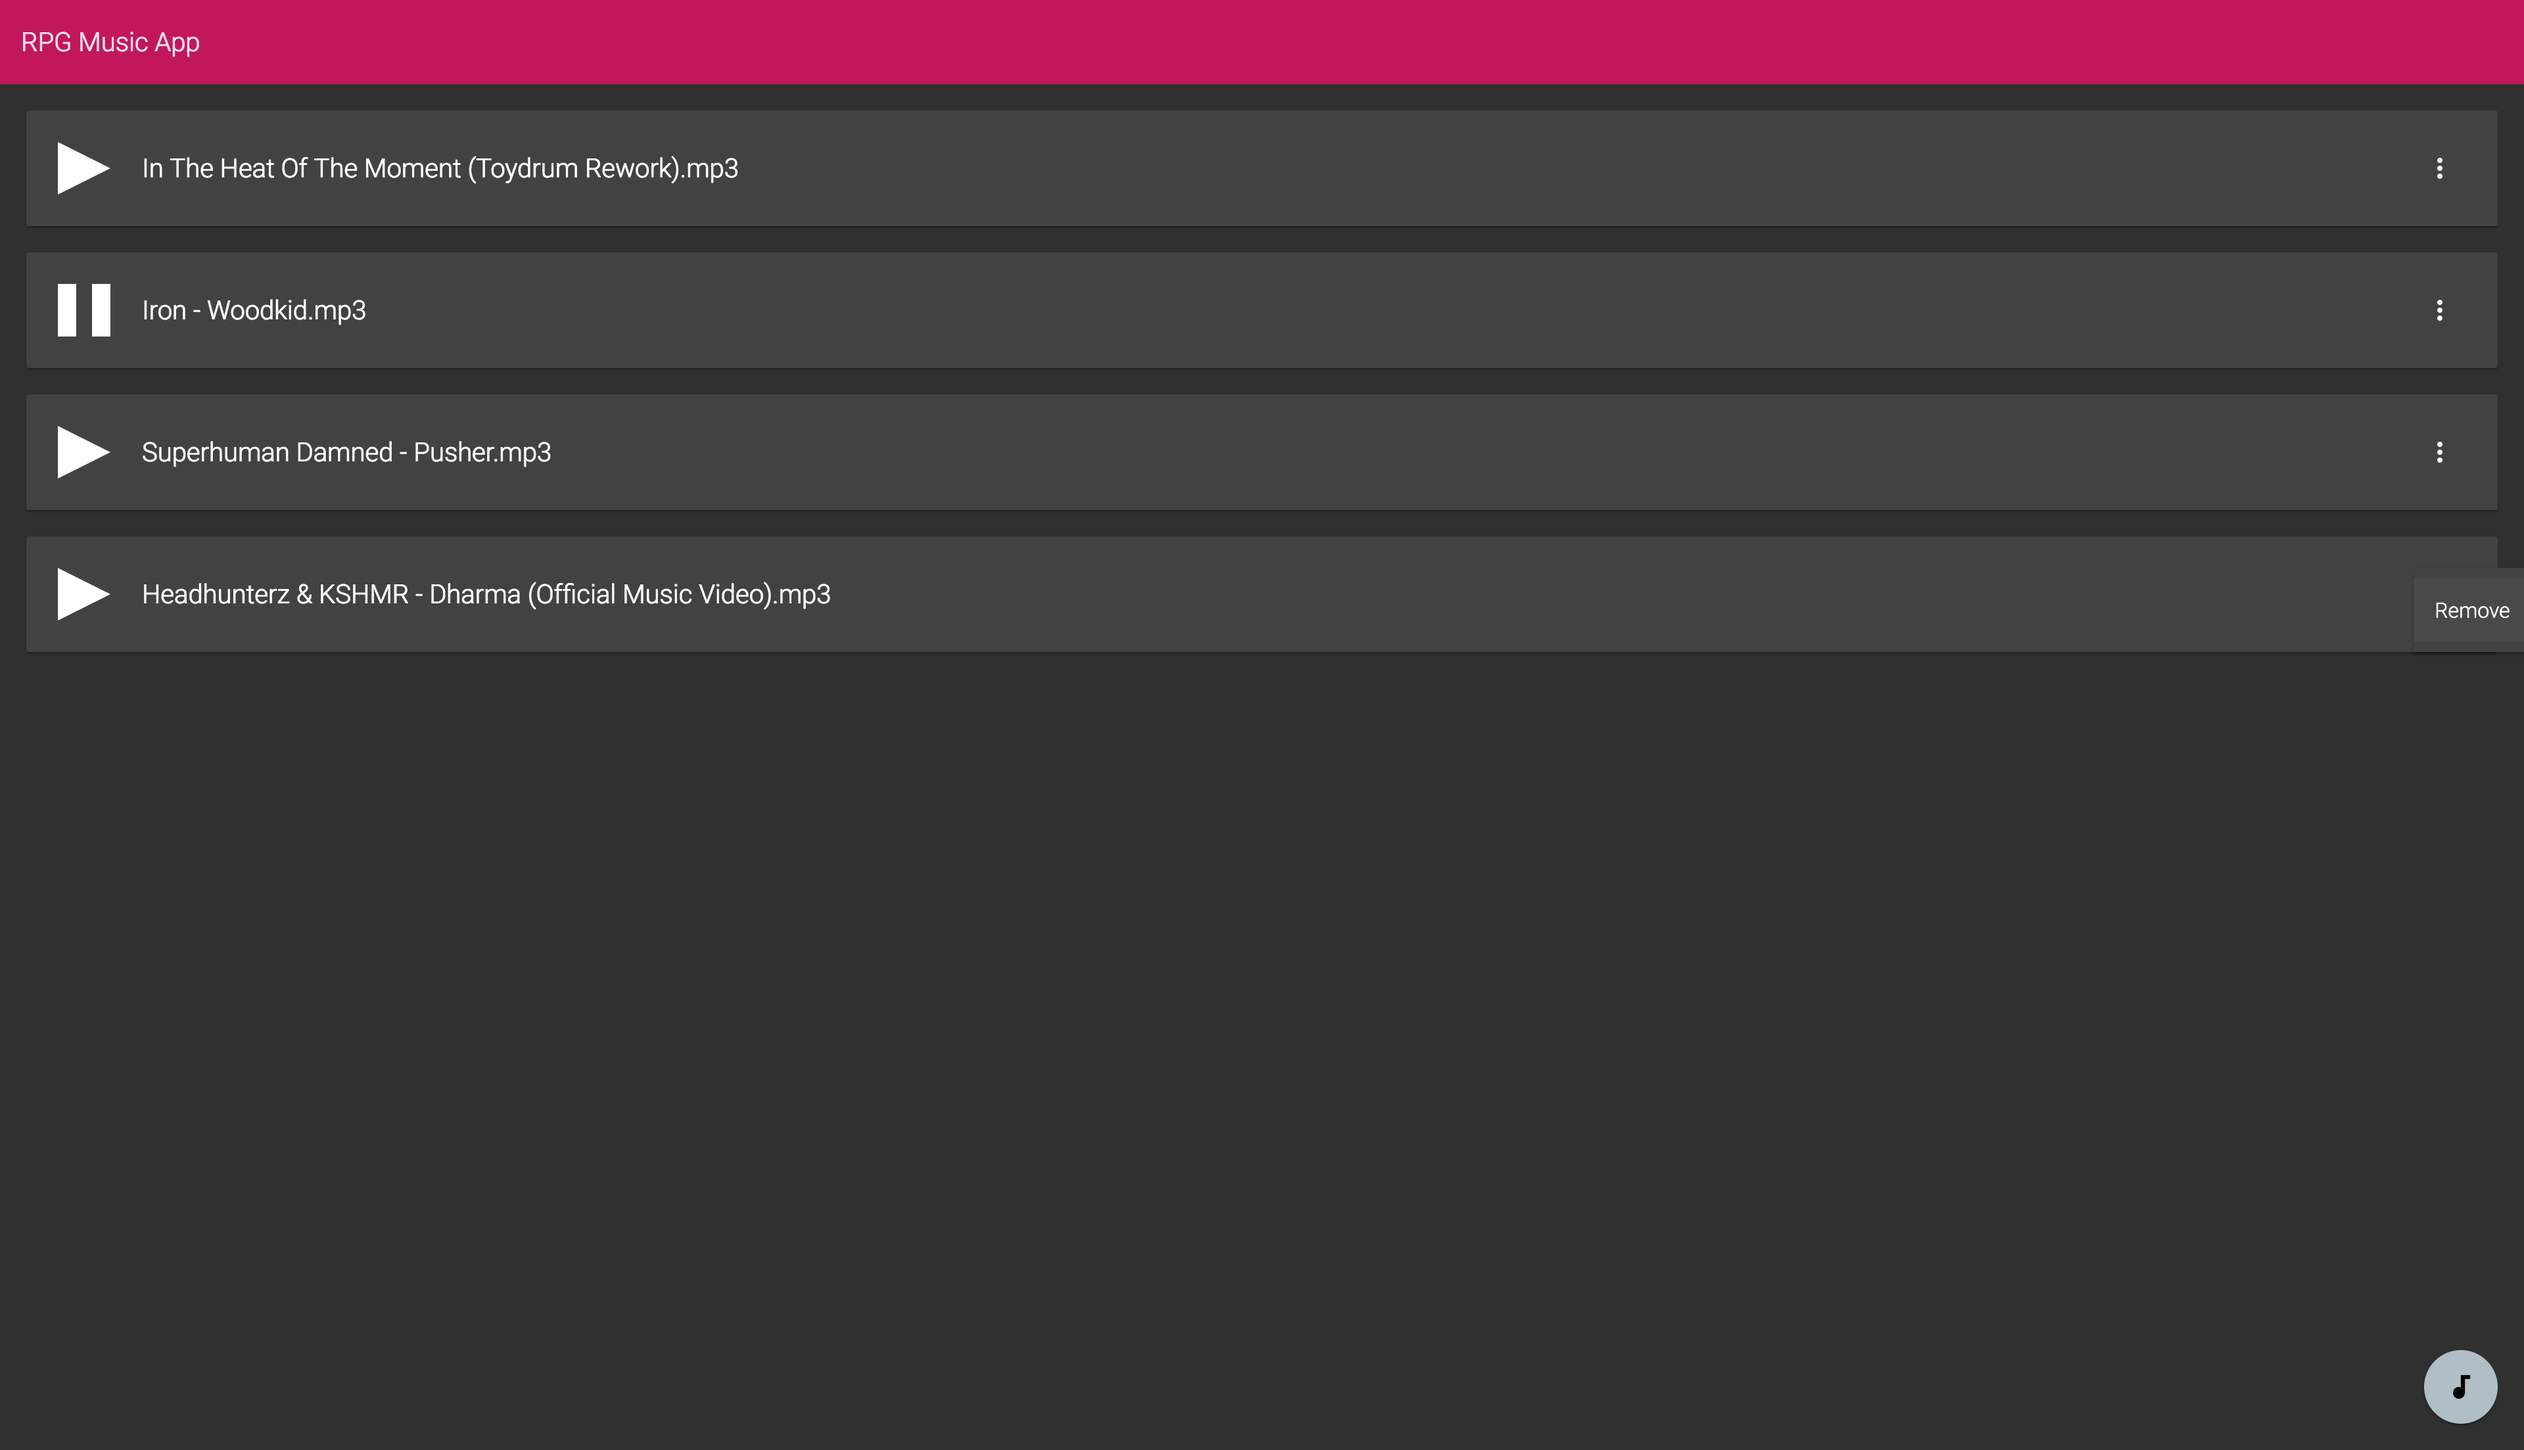
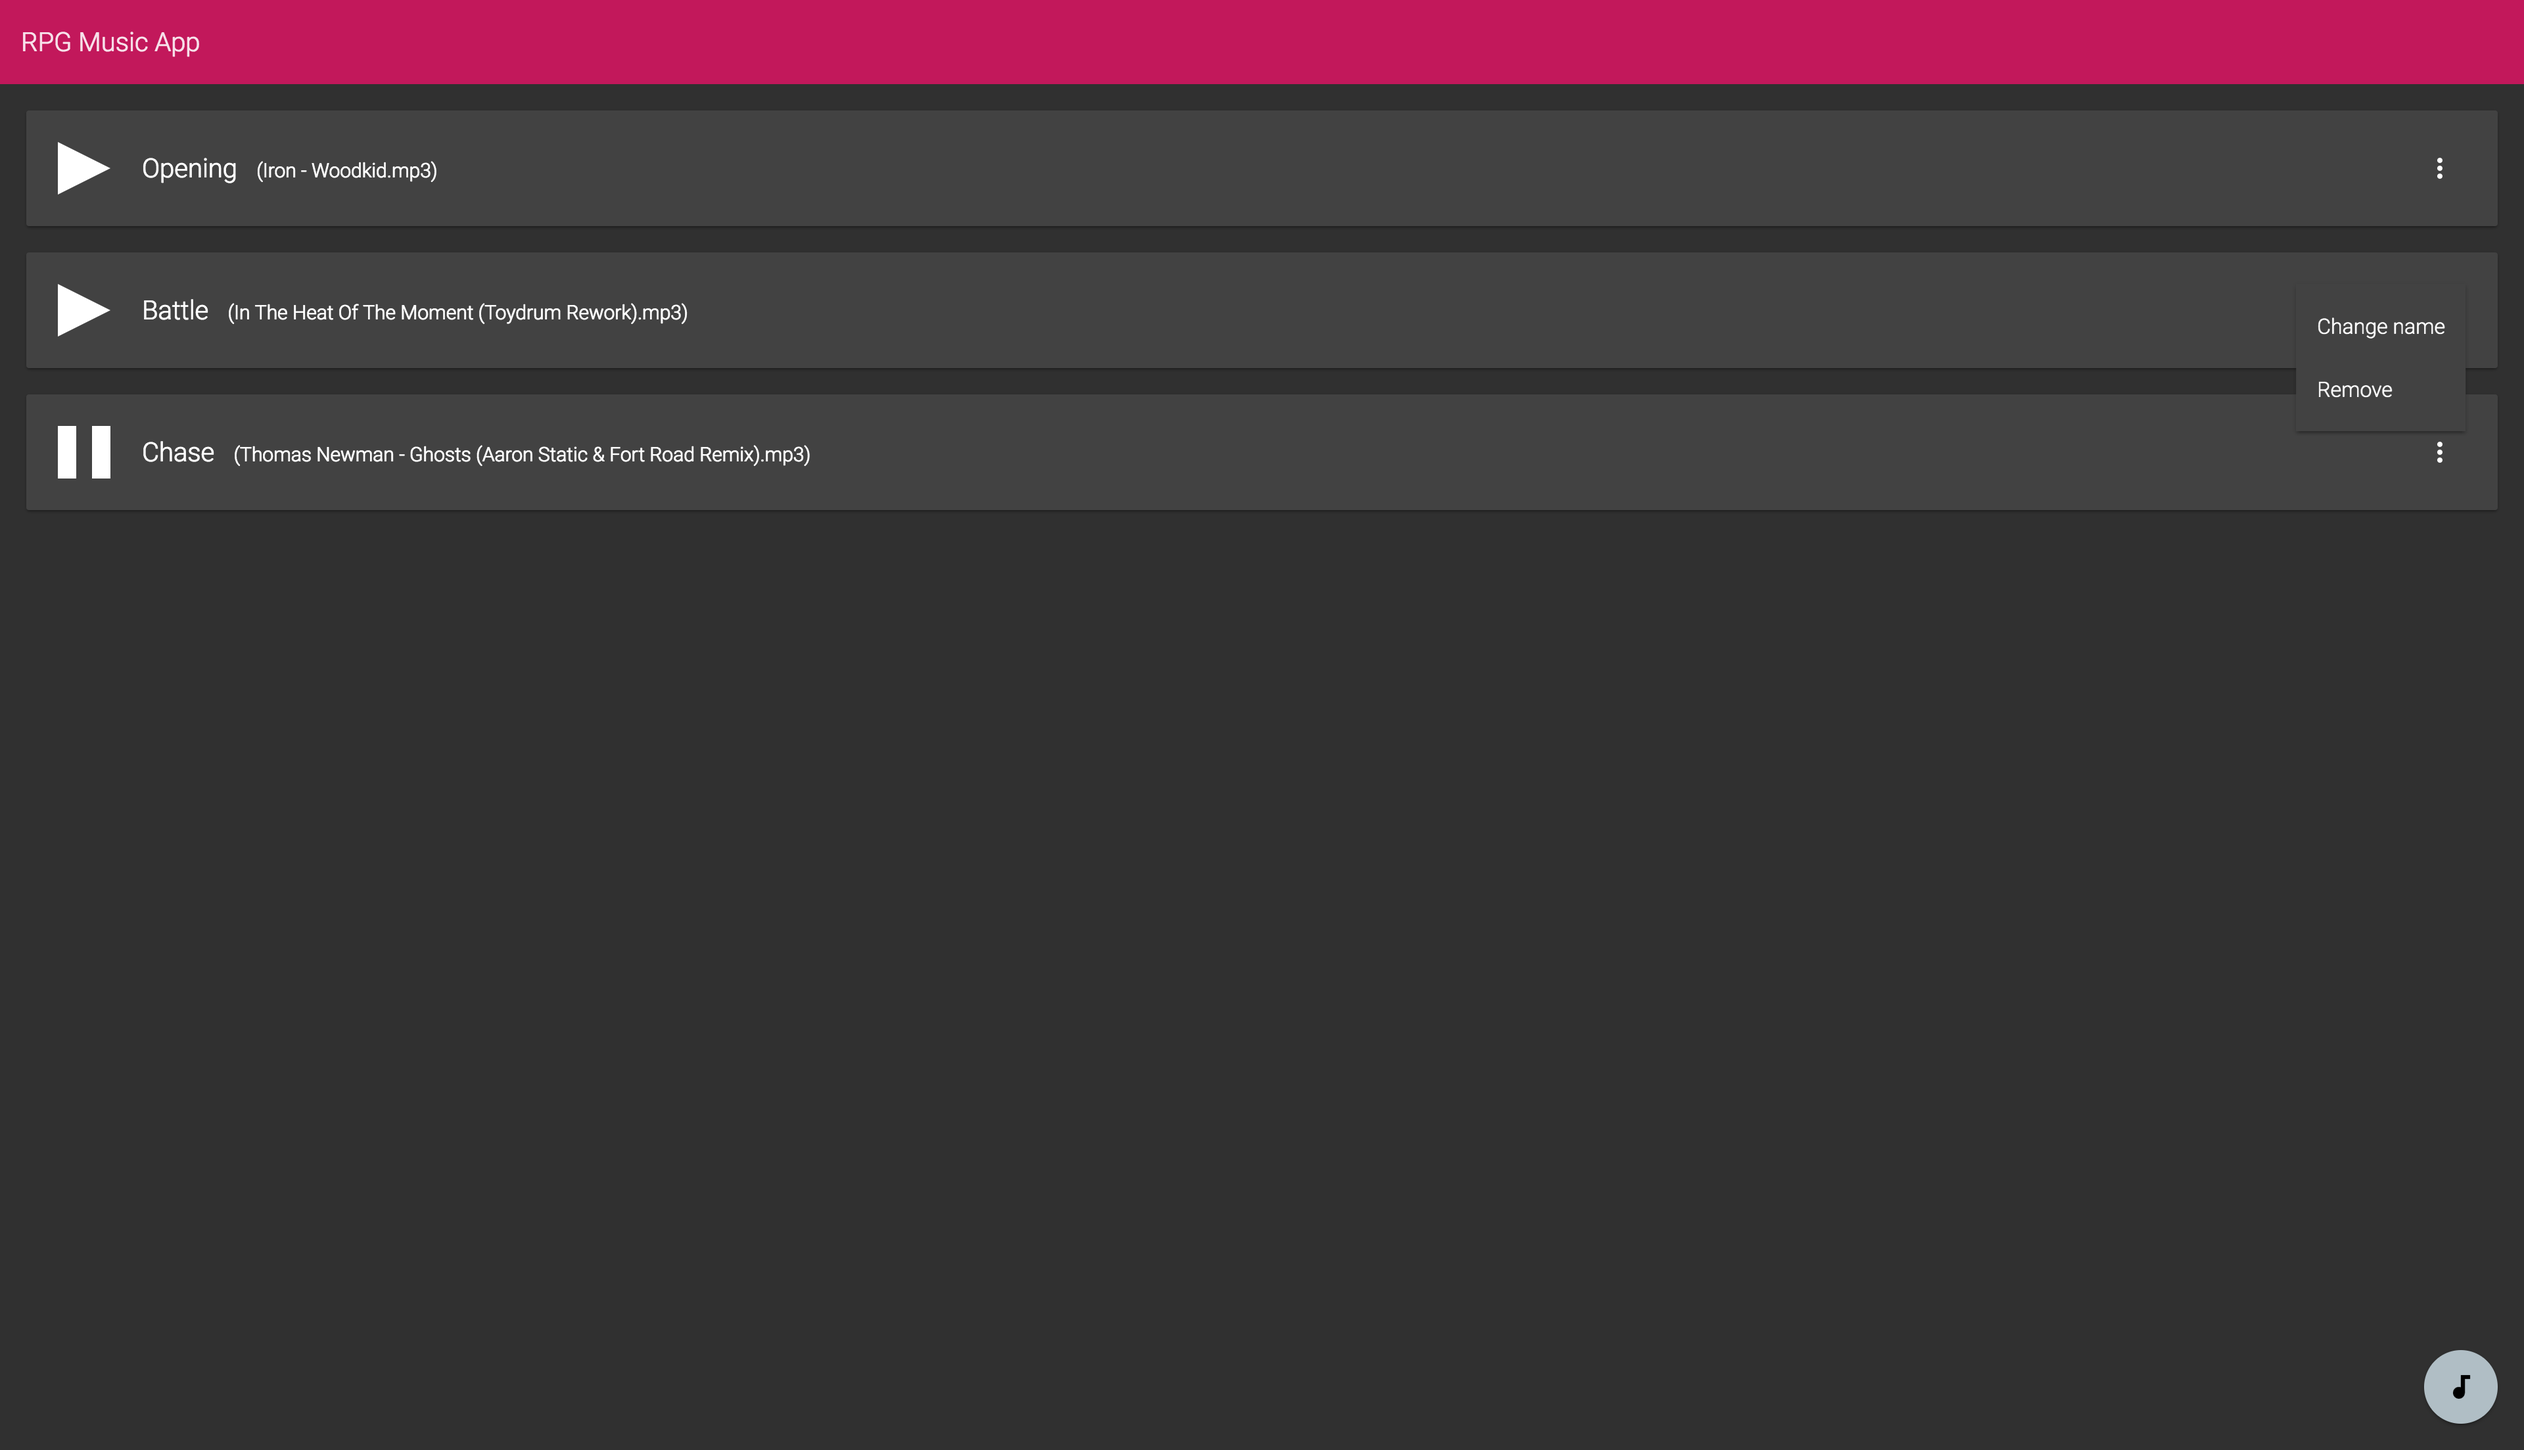
provide new screenshot, add spacing between customName and name

diff --git a/app/music/view/music.view.component.html b/app/music/view/music.view.component.html
@@ -9,7 +9,7 @@
             </a>
         </div>
         <div class="card-name">
-            <span>{{ track.customName }}</span>  <span class="custom-track-name">({{ track.name }})</span>
+            <span>{{ track.customName }}</span> &nbsp; <span class="custom-track-name">({{ track.name }})</span>
         </div>
         <div class="remove-button-outer">
             <button md-icon-button [md-menu-trigger-for]="menu">

diff --git a/app/music/view/modal/music.view.name.modal.html b/app/music/view/modal/music.view.name.modal.html
@@ -1,2 +1,2 @@
-<md-input class="white-text" dividerColor="primary" #trackName placeholder="name"></md-input>
+<md-input class="white-text" dividerColor="accent" #trackName placeholder="name"></md-input>
 <button class="white-text" md-button (click)="saveAndClose(trackName.value)"> Save </button>
